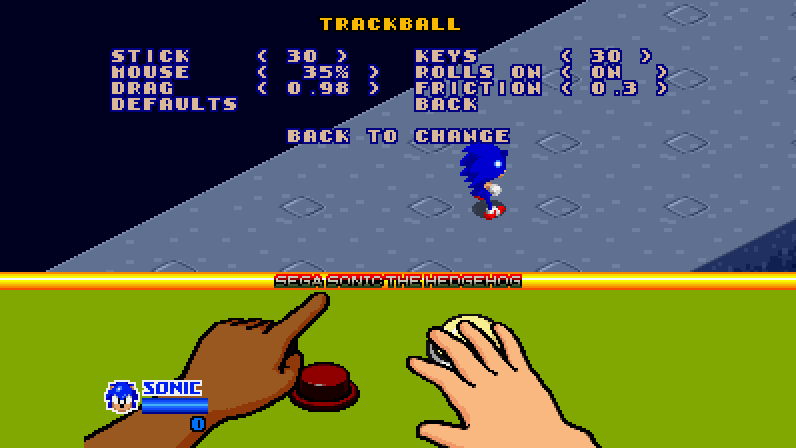
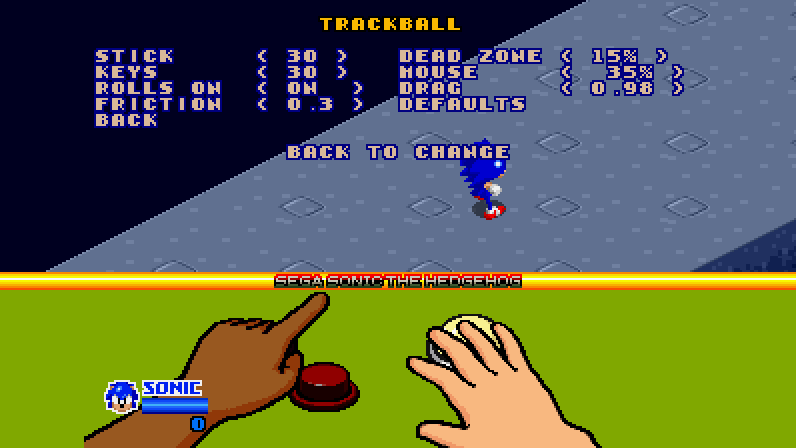
The stick's dead zone (issue 5: an Xbox controller's drift): DEAD ZONE in OPTIONS > TRACKBALL, 15% at first
The left stick went to the trackball as SDL reads it: one that rests a little off the middle, as many Xbox
controllers' do, rolled the ball (with STICK at 30, 1.7% of its travel was a count a frame) and moved Sonic
and the menus' cursor. Now its first 15% rolls nothing, and from the zone's edge out it goes to the whole of
STICK at the end of its travel, the way it leans kept (stick_lean, ports/sdl2/main.c). segasonic.ini keeps it
([controller] dead_zone, 0 to 50) in both games; the console's TRACKBALL has a DEAD ZONE line beside STICK,
in steps of 5, which DEFAULTS sets back to 15.

Checked: stick_lean as main.c has it rolls nothing at rest up to 4900/32767 and 30 counts all the way, and
at 0% gives the drift back (1 and -1 a frame at 1500/-900); the headless draws the TRACKBALL page with DEAD
ZONE chosen and raised to 20%. Of the README's screenshots only trackball.png changes.

Changed region(s): [[0.1206, 0.0938, 0.6935, 0.3125], [0.3618, 0.2812, 0.6633, 0.375], [0.7236, 0.0938, 0.8744, 0.2188]]

diff --git a/console/console.c b/console/console.c
@@ -609,7 +609,7 @@ static bool video_open;    /* the VIDEO page is on screen, in OPTIONS' place */
 #define VOLUME_MOST         10
 
 console_window console_window_settings = { .window_scale = 3, .wide = CONSOLE_WIDE_OFF, .vsync = true, .volume = 5,
-	.title_music = 0x01, .continues = 3, .stick_roll = 30, .key_roll = 30, .mouse_speed = 0.35, .ball_rolls_on = true,
+	.title_music = 0x01, .continues = 3, .stick_roll = 30, .stick_dead_zone = 15, .key_roll = 30, .mouse_speed = 0.35, .ball_rolls_on = true,
 	.ball_drag = 0.98, .ball_friction = 0.3 };
 
 static int option_choice;    /* the line chosen on the page shown */
@@ -1444,6 +1444,7 @@ static void run_controls(void)
 enum
 {
 	TRACKBALL_STICK,
+	TRACKBALL_DEAD_ZONE,
 	TRACKBALL_KEYS,
 	TRACKBALL_MOUSE,
 	TRACKBALL_ROLLS_ON,
@@ -1455,24 +1456,26 @@ enum
 };
 
 static const char *const trackball_names[TRACKBALL_ITEMS] = {
-	"STICK", "KEYS", "MOUSE", "ROLLS ON", "DRAG", "FRICTION", "DEFAULTS", "BACK"
+	"STICK", "DEAD ZONE", "KEYS", "MOUSE", "ROLLS ON", "DRAG", "FRICTION", "DEFAULTS", "BACK"
 };
 
 /* The page's lines, two a row */
 static const int trackball_lines[] = {
-	TRACKBALL_STICK, TRACKBALL_KEYS, TRACKBALL_MOUSE, TRACKBALL_ROLLS_ON, TRACKBALL_DRAG, TRACKBALL_FRICTION,
+	TRACKBALL_STICK, TRACKBALL_DEAD_ZONE, TRACKBALL_KEYS, TRACKBALL_MOUSE, TRACKBALL_ROLLS_ON, TRACKBALL_DRAG, TRACKBALL_FRICTION,
 	TRACKBALL_DEFAULTS, TRACKBALL_BACK
 };
 
 #define TRACKBALL_LINES       ((int)(sizeof(trackball_lines) / sizeof(trackball_lines[0])))
 #define TRACKBALL_TITLE_ROW   1u
 #define TRACKBALL_FIRST_ROW   3u      /* then a row every two lines, */
-#define TRACKBALL_HINT_ROW    (TRACKBALL_FIRST_ROW + (uint32_t)TRACKBALL_LINES / 2u + 1u)
-#define TRACKBALL_NAME_COLUMN 2u      /* the left line's name and value, */
+#define TRACKBALL_HINT_ROW    (TRACKBALL_FIRST_ROW + ((uint32_t)TRACKBALL_LINES + 1u) / 2u + 1u)
+#define TRACKBALL_NAME_COLUMN 1u      /* the left line's name and value (DEAD ZONE's nine letters and a space), */
 #define TRACKBALL_VALUE_COLUMN 11u
 #define TRACKBALL_HALF        19u     /* and the right one's this much further */
 #define ROLL_STEP             5       /* STICK and KEYS: 0 to 60 (the player is at its fastest from about 36 counts a */
 #define ROLL_MOST             60      /* frame along an axis: set_speed_from_trackball) */
+#define DEAD_ZONE_STEP        5       /* DEAD ZONE: 0% to 50% of the stick's travel */
+#define DEAD_ZONE_MOST        50
 #define MOUSE_LEAST           0.05    /* MOUSE: as F5 and F6 change it, a fifth slower or a quarter faster */
 #define MOUSE_MOST            4.0
 #define DRAG_LEAST            90      /* DRAG: 0.90 to 1.00, in hundredths */
@@ -1527,6 +1530,9 @@ static void trackball_value(int line, char *text)
 	{
 	case TRACKBALL_STICK:
 		arrow_number(text, console_window_settings.stick_roll, 0, 2, "");
+		return;
+	case TRACKBALL_DEAD_ZONE:
+		arrow_number(text, console_window_settings.stick_dead_zone, 0, 2, "%");
 		return;
 	case TRACKBALL_KEYS:
 		arrow_number(text, console_window_settings.key_roll, 0, 2, "");
@@ -1585,15 +1591,15 @@ static void erase_trackball(void)
 		erase_line(row);
 }
 
-/* STICK and KEYS a step of ROLL_STEP, from the multiple of it at or under the value (segasonic.ini may hold
-   any) */
-static int roll_step(int roll, int step)
+/* STICK, DEAD ZONE and KEYS a step of 'size', from the multiple of it at or under the value (segasonic.ini
+   may hold any), from 0 to 'most' */
+static int multiple_step(int value, int step, int size, int most)
 {
-	const int under = roll - roll % ROLL_STEP;
+	const int under = value - value % size;
 
 	if (step > 0)
-		return clamp(under + ROLL_STEP, 0, ROLL_MOST);
-	return clamp(under == roll ? under - ROLL_STEP : under, 0, ROLL_MOST);
+		return clamp(under + size, 0, most);
+	return clamp(under == value ? under - size : under, 0, most);
 }
 
 static void change_trackball(int line, int step)
@@ -1603,10 +1609,13 @@ static void change_trackball(int line, int step)
 	switch (line)
 	{
 	case TRACKBALL_STICK:
-		window->stick_roll = roll_step(window->stick_roll, step);
+		window->stick_roll = multiple_step(window->stick_roll, step, ROLL_STEP, ROLL_MOST);
+		break;
+	case TRACKBALL_DEAD_ZONE:
+		window->stick_dead_zone = multiple_step(window->stick_dead_zone, step, DEAD_ZONE_STEP, DEAD_ZONE_MOST);
 		break;
 	case TRACKBALL_KEYS:
-		window->key_roll = roll_step(window->key_roll, step);
+		window->key_roll = multiple_step(window->key_roll, step, ROLL_STEP, ROLL_MOST);
 		break;
 	case TRACKBALL_MOUSE:
 		window->mouse_speed *= step > 0 ? 1.25 : 0.8;
@@ -1632,6 +1641,7 @@ static void change_trackball(int line, int step)
 static void trackball_defaults(void)
 {
 	console_window_settings.stick_roll = 30;
+	console_window_settings.stick_dead_zone = 15;
 	console_window_settings.key_roll = 30;
 	console_window_settings.mouse_speed = 0.35;
 	console_window_settings.ball_rolls_on = true;

diff --git a/ports/sdl2/main.c b/ports/sdl2/main.c
@@ -825,6 +825,7 @@ static void tell_console_settings(void)
 	console_window_settings.title_music = (int)settings.title_music;
 	console_window_settings.continues = (int)settings.continues;
 	console_window_settings.stick_roll = (int)lround(settings.stick_roll);
+	console_window_settings.stick_dead_zone = (int)lround(settings.stick_dead_zone);
 	console_window_settings.key_roll = (int)lround(settings.key_roll);
 	console_window_settings.mouse_speed = settings.mouse_speed;
 	console_window_settings.ball_rolls_on = settings.ball_rolls_on;
@@ -1117,6 +1118,25 @@ static void lan_controls(void)
 }
 #endif
 
+/* The left stick as the trackball's counts this frame: none within the dead zone about its middle (a stick that
+   does not come back to it: issue 5, an Xbox controller's drift), and from the zone's edge out to the whole of
+   STICK at the end of its travel, the way it leans kept */
+static void stick_lean(SDL_GameController *pad, double *x, double *y)
+{
+	const double lean_x = SDL_GameControllerGetAxis(pad, SDL_CONTROLLER_AXIS_LEFTX) / 32767.0;
+	const double lean_y = SDL_GameControllerGetAxis(pad, SDL_CONTROLLER_AXIS_LEFTY) / 32767.0;
+	const double lean = sqrt(lean_x * lean_x + lean_y * lean_y);
+	const double dead = settings.stick_dead_zone / 100.0;
+	double scale;
+
+	*x = *y = 0.0;
+	if (lean <= dead)
+		return;
+	scale = (lean - dead) / (1.0 - dead) / lean * settings.stick_roll;
+	*x = lean_x * scale;
+	*y = lean_y * scale;
+}
+
 /* the state of every control once a frame, where the board reads them */
 static void on_controls_update(void)
 {
@@ -1208,11 +1228,13 @@ static void on_controls_update(void)
 	for (int player = 0; player < PLAYERS; player++)
 	{
 		SDL_GameController *pad = controllers[player];
+		double lean_x, lean_y;
 
 		if (!pad)
 			continue;
-		controls.roll_x[player] -= (int)lround(SDL_GameControllerGetAxis(pad, SDL_CONTROLLER_AXIS_LEFTX) / 32767.0 * settings.stick_roll);
-		controls.roll_y[player] += (int)lround(SDL_GameControllerGetAxis(pad, SDL_CONTROLLER_AXIS_LEFTY) / 32767.0 * settings.stick_roll);
+		stick_lean(pad, &lean_x, &lean_y);
+		controls.roll_x[player] -= (int)lround(lean_x);
+		controls.roll_y[player] += (int)lround(lean_y);
 #ifndef SEGASONIC_CONSOLE
 		controls.button[player] |= SDL_GameControllerGetButton(pad, SDL_CONTROLLER_BUTTON_A) != 0;
 		controls.start[player] |= SDL_GameControllerGetButton(pad, SDL_CONTROLLER_BUTTON_START) != 0;
@@ -1662,6 +1684,7 @@ static void on_frame_done(void)
 		settings.title_music = console_window_settings.title_music;
 		settings.continues = console_window_settings.continues;
 		settings.stick_roll = console_window_settings.stick_roll;
+		settings.stick_dead_zone = console_window_settings.stick_dead_zone;
 		settings.key_roll = console_window_settings.key_roll;
 		settings.mouse_speed = console_window_settings.mouse_speed;
 		settings.ball_rolls_on = console_window_settings.ball_rolls_on;

diff --git a/ports/sdl2/settings.c b/ports/sdl2/settings.c
@@ -33,6 +33,7 @@ port_settings settings = {
 	.ball_friction = 0.3,
 	.key_roll = 30.0,
 	.stick_roll = 30.0,
+	.stick_dead_zone = 15.0,
 	.window_scale = 3.0,
 	.full_screen = false,
 	.smooth = false,
@@ -92,6 +93,10 @@ static const entry entries[] = {
 	{ "controller", "roll",
 		"trackball counts a frame for the left stick pushed all the way",
 		&settings.stick_roll, NULL, 0.0, 127.0 },
+	{ "controller", "dead_zone",
+		"how far the left stick goes, in percent of its travel, before it rolls the trackball, 0 to 50: a stick\n"
+		"that does not come back to the middle rolls nothing (OPTIONS > TRACKBALL > DEAD ZONE)",
+		&settings.stick_dead_zone, NULL, 0.0, 50.0 },
 	{ "video", "scale",
 		"the window's size, in times the game's picture",
 		&settings.window_scale, NULL, 1.0, 10.0 },

diff --git a/console/console.h b/console/console.h
@@ -34,6 +34,7 @@ typedef struct
 	int title_music;      /* the sound id of the song the title plays (SOUND TEST picks it) */
 	int continues;        /* a game's continues, 0-9, or -1: free play (CONTINUES) */
 	int stick_roll;       /* TRACKBALL: trackball counts a frame for a game controller's stick pushed all the way, */
+	int stick_dead_zone;  /* the stick's travel, in percent, that rolls nothing (a stick's drift), */
 	int key_roll;         /* for an arrow key or the pad's cross held, */
 	double mouse_speed;   /* for a pixel of mouse movement */
 	bool ball_rolls_on;   /* the mouse turns a ball that keeps rolling when it stops, */

diff --git a/ports/sdl2/settings.h b/ports/sdl2/settings.h
@@ -22,6 +22,7 @@ typedef struct port_settings
 	double ball_friction;     /* ... and loses this many counts a frame more */
 	double key_roll;          /* trackball counts a frame for an arrow key held */
 	double stick_roll;        /* ... for a controller's stick pushed all the way */
+	double stick_dead_zone;   /* the stick's travel, in percent, that rolls nothing (issue 5: a stick's drift) */
 	double window_scale;      /* the window, in times the game's picture */
 	bool full_screen;
 	bool smooth;              /* smooth pixels (sharp bilinear), or sharp ones */

diff --git a/README.md b/README.md
@@ -98,8 +98,10 @@ one to share.
 - **TRACKBALL** (Windows, macOS and Linux): how far the stick, the keys and the pad's cross and the mouse
   roll Sonic, on the how to play's floor. Up and down choose a setting, left and right change it, accept
   tries it: Sonic moves (and jumps) until back. STICK and KEYS go from 0 to 60 trackball counts a frame
-  (30 at first; Sonic is at his fastest from about 36), MOUSE as F5 and F6 change it, ROLLS ON as F4, DRAG
-  and FRICTION how soon a ball the mouse left rolling stops. They are kept in `segasonic.ini`.
+  (30 at first; Sonic is at his fastest from about 36), DEAD ZONE how far the stick goes before it rolls
+  anything (0% to 50%, 15% at first: a stick that does not come back to the middle leaves Sonic still),
+  MOUSE as F5 and F6 change it, ROLLS ON as F4, DRAG and FRICTION how soon a ball the mouse left rolling
+  stops. They are kept in `segasonic.ini`.
 
 ### Controls
 
@@ -154,7 +156,9 @@ start (1). Player 1's controls:
 
 The mouse is always the trackball here, and turns as the arcade's does: the ball turns with the mouse and, when the mouse stops
 or is lifted, rolls on and slows down; the right button holds it. Each game controller is a player: the
-left stick is the trackball, A the button, Start the start and Back a coin.
+left stick is the trackball, A the button, Start the start and Back a coin; the stick rolls nothing in its
+first 15% (`segasonic.ini`'s `[controller]` `dead_zone`), so that one that does not come back to the middle
+leaves the player still.
 
 ### Where the game keeps its files
 
